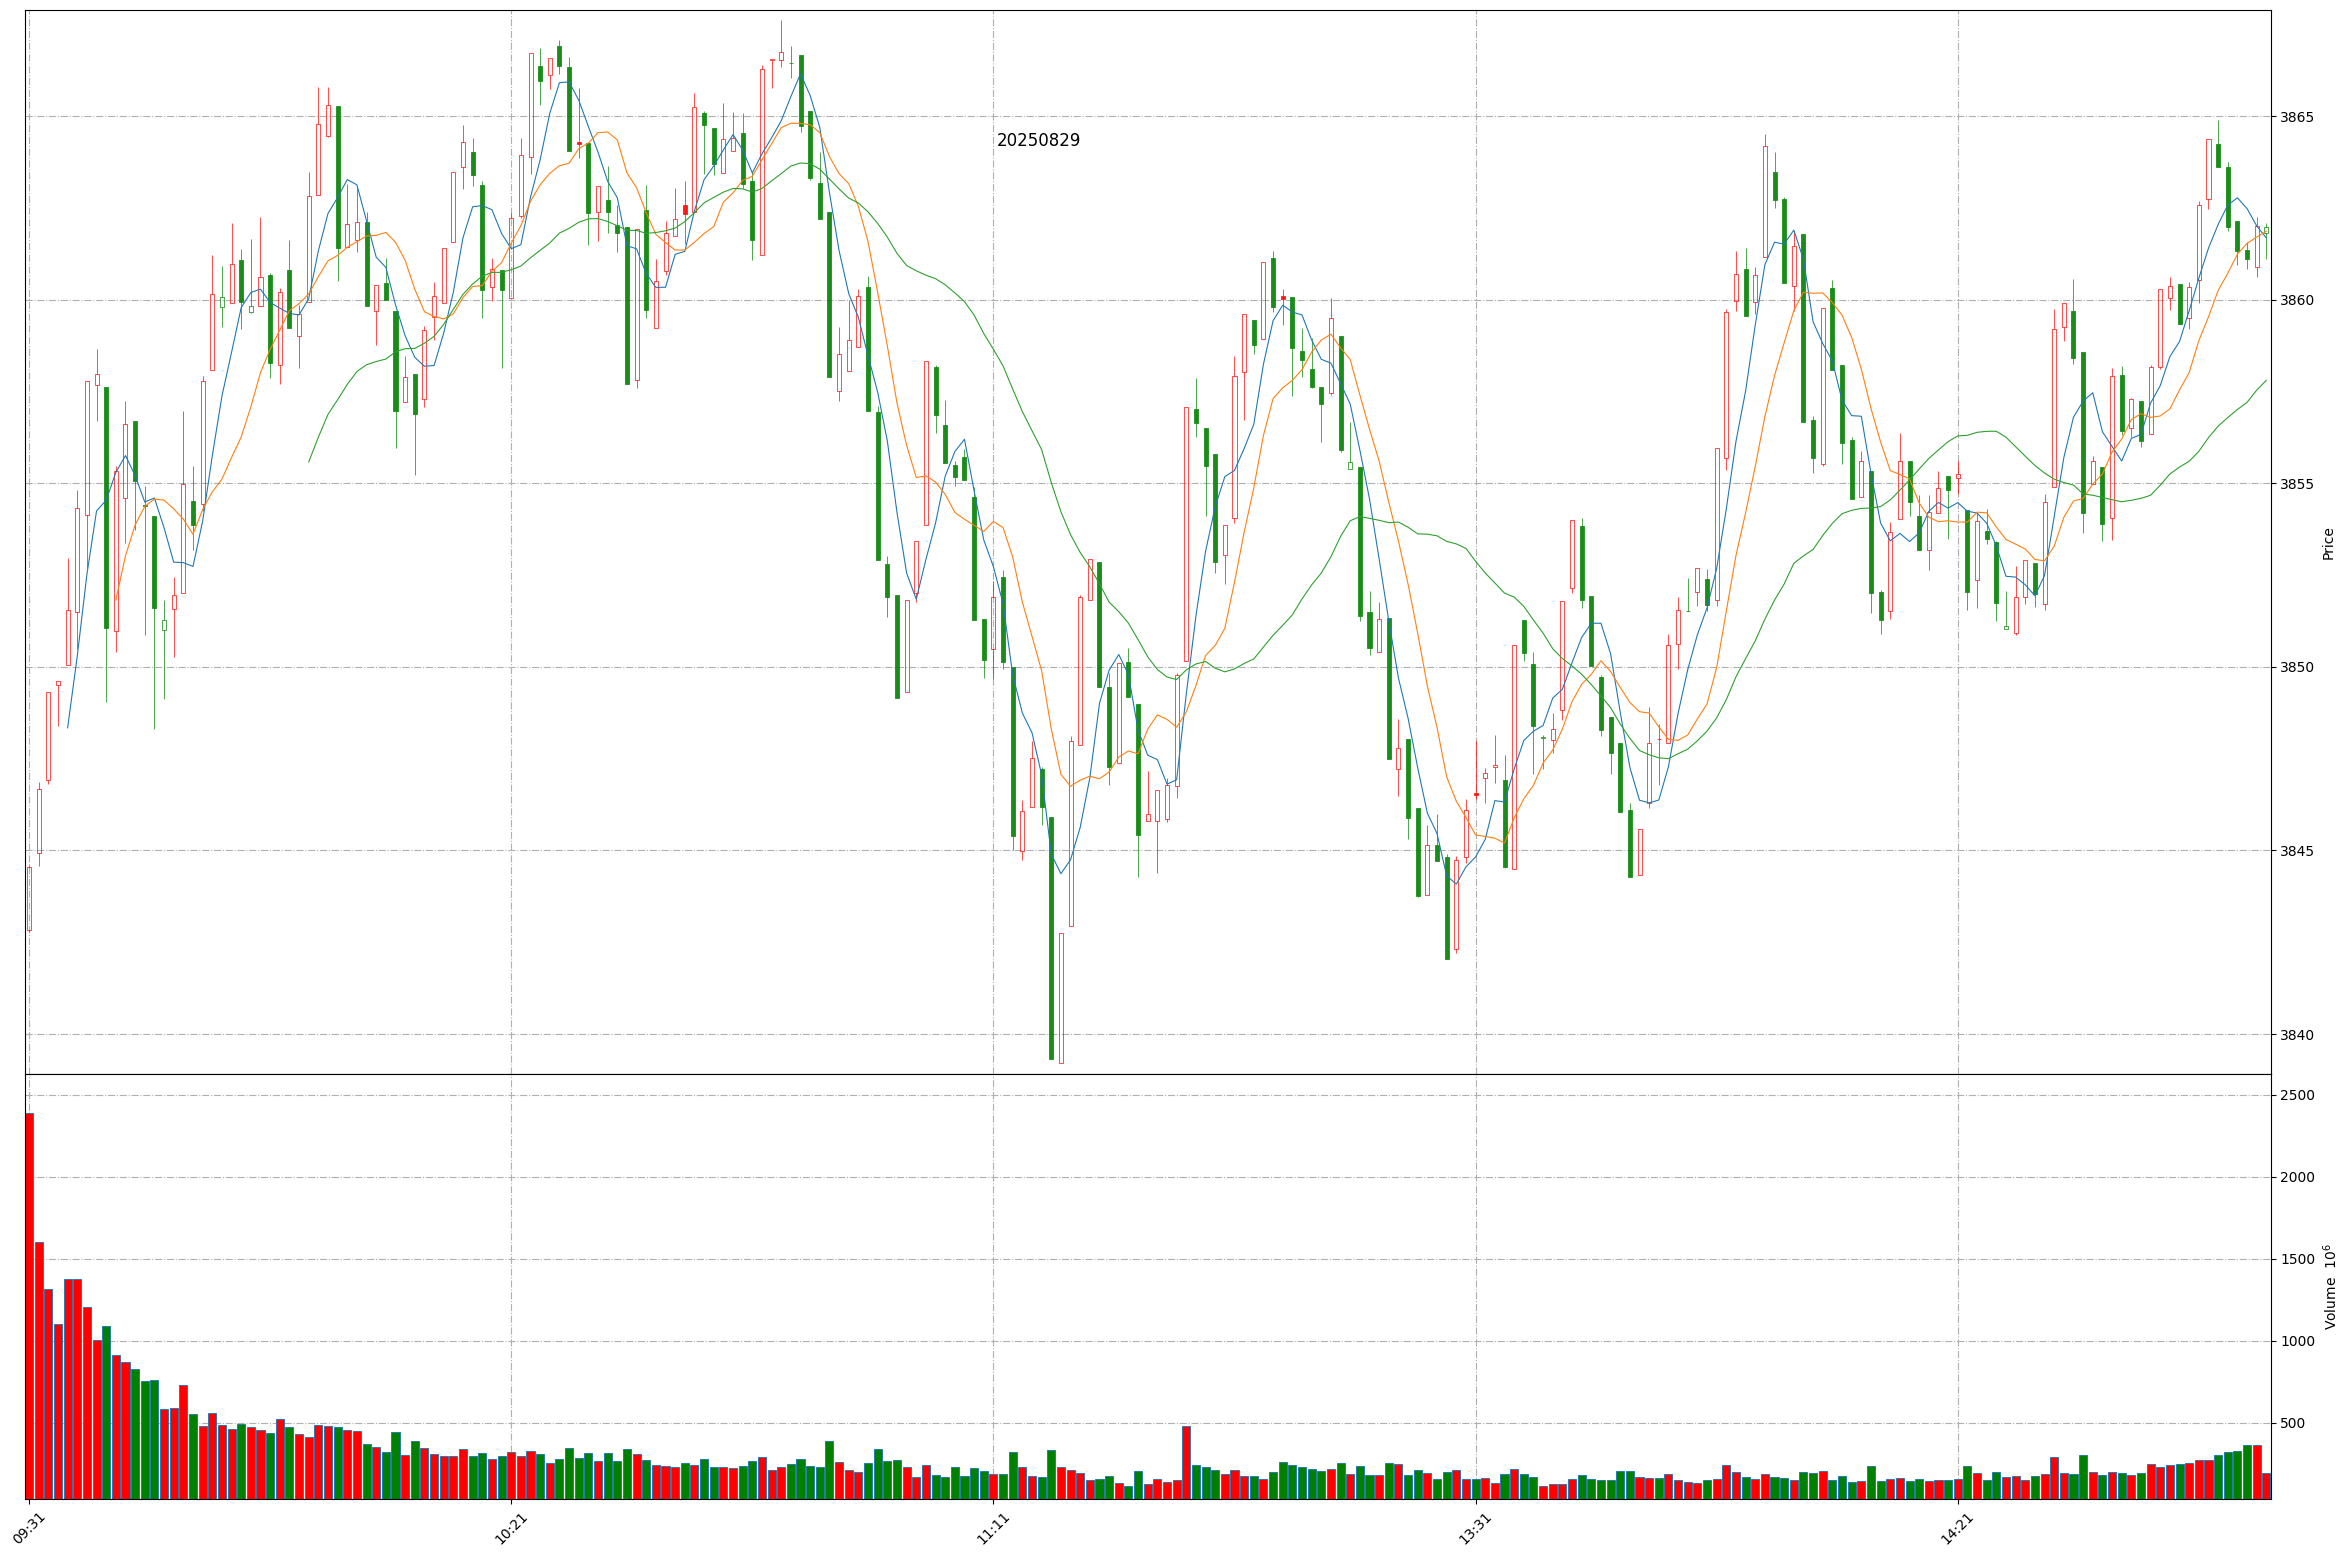
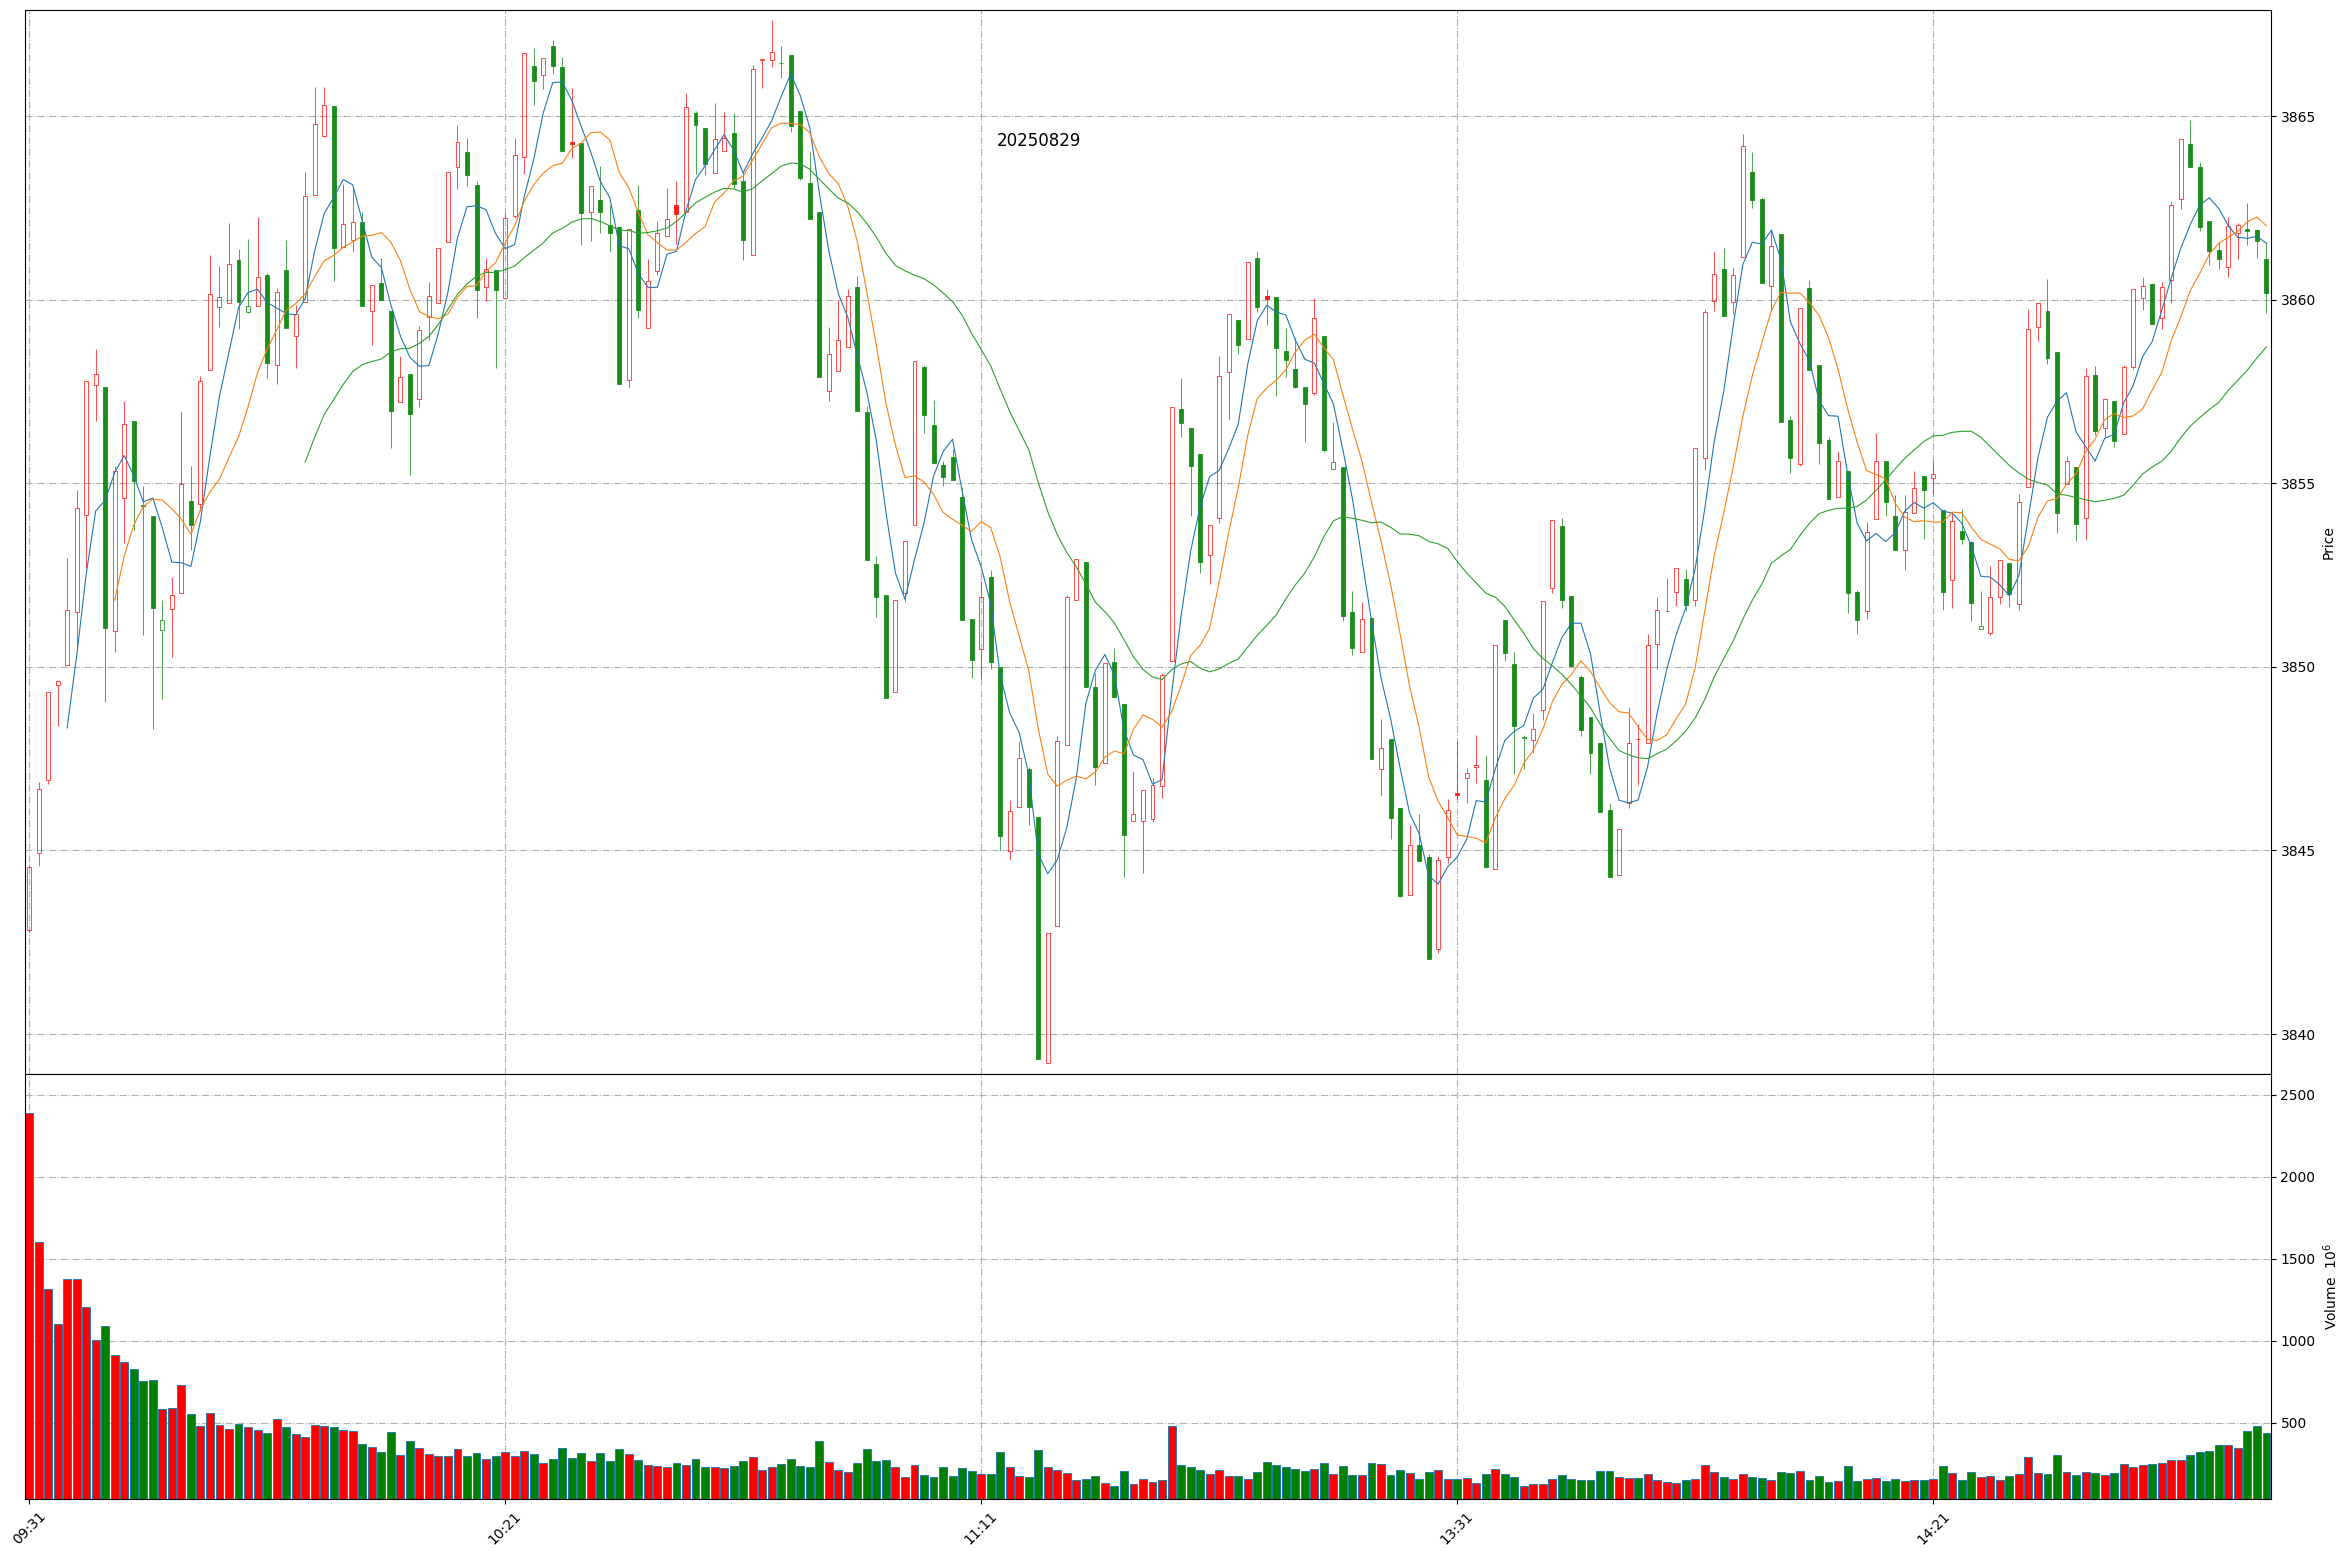
Github action update at 2025-08-29 14:56:05.

diff --git a/README.md b/README.md
@@ -1,11 +1,11 @@
 
 # Daily-A-share-market-quotes 每日 A 股指数（5min 更新）- 20250829
 
-### 上证指数 20250829 14:53
+### 上证指数 20250829 14:56
 ![](./fig/2025/8/20250829-sh000001.png)
 
-### 深证成指 20250829 14:53
+### 深证成指 20250829 14:56
 ![](./fig/2025/8/20250829-sz399001.png)
 
-### 北证50 20250829 14:53
+### 北证50 20250829 14:56
 ![](./fig/2025/8/20250829-bj899050.png)
